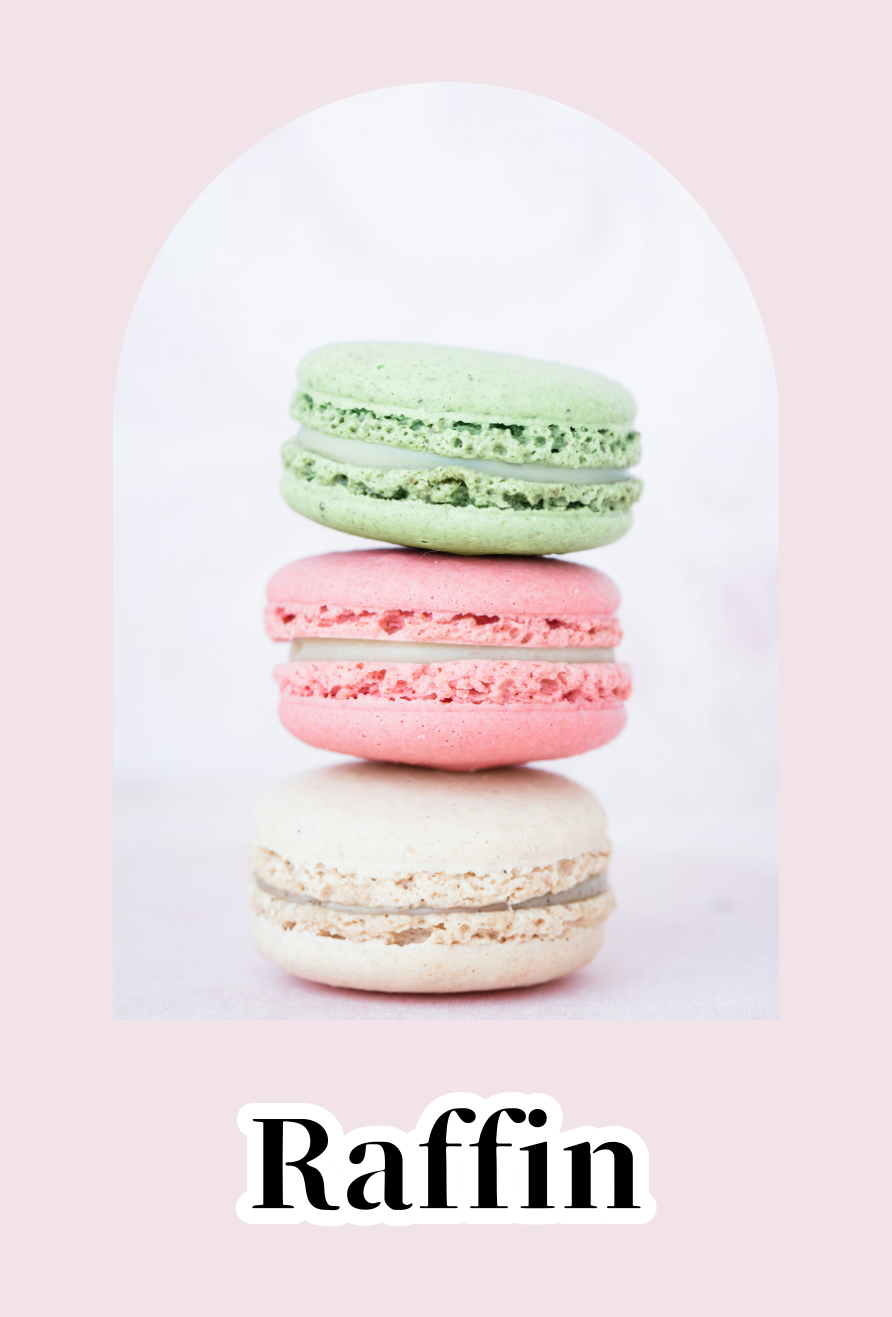
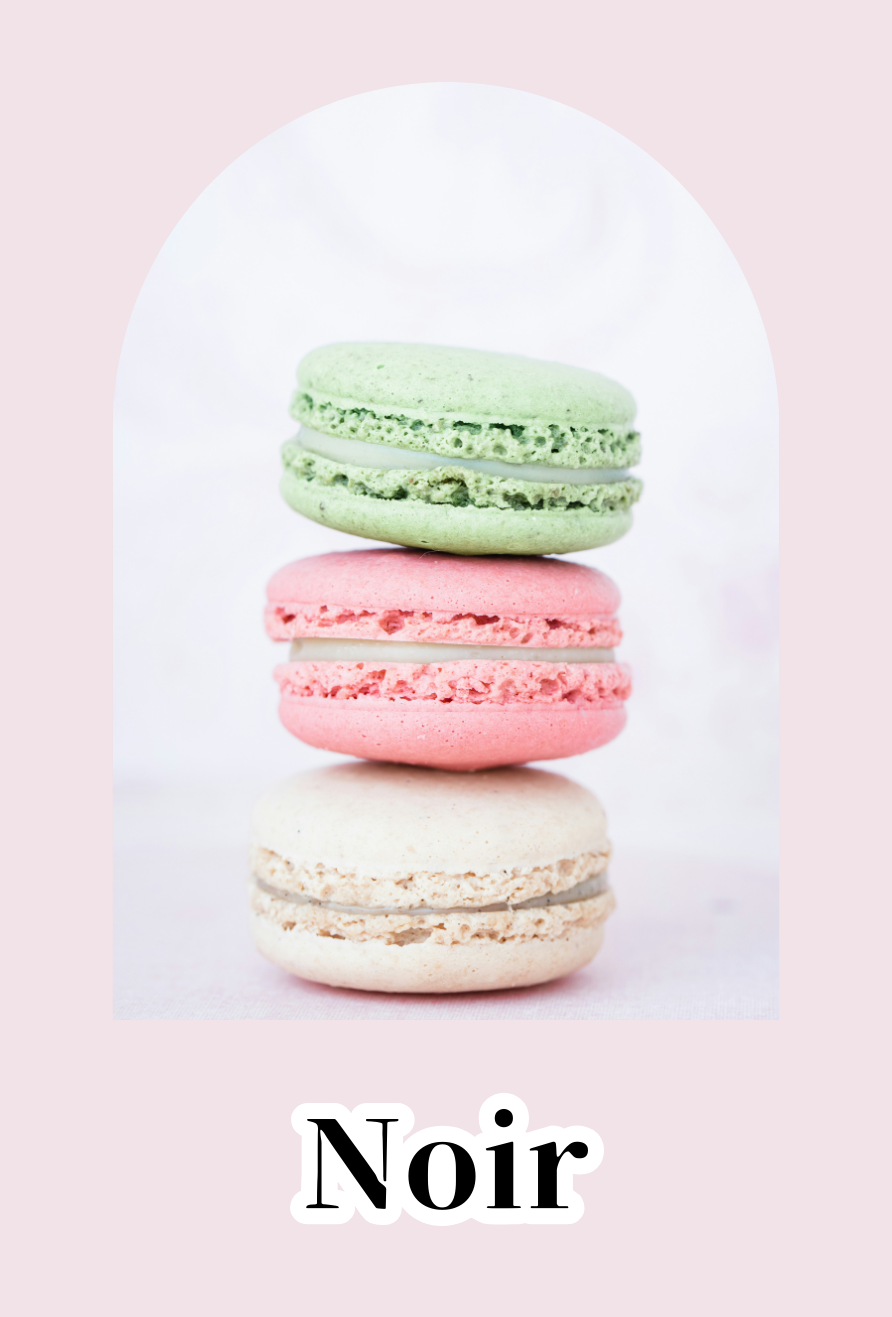
0626_3

Changed region(s): [[0.2422, 0.8094, 0.7567, 0.9339]]

diff --git a/public/index.html b/public/index.html
@@ -35,7 +35,7 @@
 <link href="https://fonts.googleapis.com/css2?family=Noto+Sans+JP:wght@300;400;700&display=swap" rel="stylesheet">
 <script src="https://ajax.googleapis.com/ajax/libs/jquery/3.4.1/jquery.min.js"></script>
 
-<link href="assets/stylesheets/bundle6fee087fd16b4c2f4947.css" rel="stylesheet"></head>
+<link href="assets/stylesheets/bundlead5ad99b81fad6c08388.css" rel="stylesheet"></head>
 <body>
 <div class="l-wrap">
 
@@ -173,14 +173,14 @@
           },
           {
             shopImg: 'assets/images/shopImg_2.png',
-            shopName: 'Raffiné',
-            shopSub: 'ラフィネ',
+            shopName: 'Noir',
+            shopSub: 'ノワール',
             shopText: 'カラフルで様々なフレーバーが魅力！<br>マカロン専門店',
           },
           {
             shopImg: 'assets/images/shopImg_3.png',
-            shopName: 'Purely',
-            shopSub: 'ピュアリス',
+            shopName: 'Ciel',
+            shopSub: 'シエル',
             shopText: 'おしゃれなビジュアル！<br>苺スイーツ専門店',
           },
           {
@@ -383,5 +383,5 @@ $(document).ready(function(){
   });
 });
         </script>
-      <script type="text/javascript" src="assets/javascripts/bundle6fee087fd16b4c2f4947.js"></script></body>
+      <script type="text/javascript" src="assets/javascripts/bundlead5ad99b81fad6c08388.js"></script></body>
 </html>

diff --git a/public/about/index.html b/public/about/index.html
@@ -35,7 +35,7 @@
 <link href="https://fonts.googleapis.com/css2?family=Noto+Sans+JP:wght@300;400;700&display=swap" rel="stylesheet">
 <script src="https://ajax.googleapis.com/ajax/libs/jquery/3.4.1/jquery.min.js"></script>
 
-<link href="../assets/stylesheets/bundle6fee087fd16b4c2f4947.css" rel="stylesheet"></head>
+<link href="../assets/stylesheets/bundlead5ad99b81fad6c08388.css" rel="stylesheet"></head>
 <body>
 <div class="l-wrap">
 
@@ -209,5 +209,5 @@ $(document).ready(function(){
   });
 });
         </script>
-      <script type="text/javascript" src="../assets/javascripts/bundle6fee087fd16b4c2f4947.js"></script></body>
+      <script type="text/javascript" src="../assets/javascripts/bundlead5ad99b81fad6c08388.js"></script></body>
 </html>
